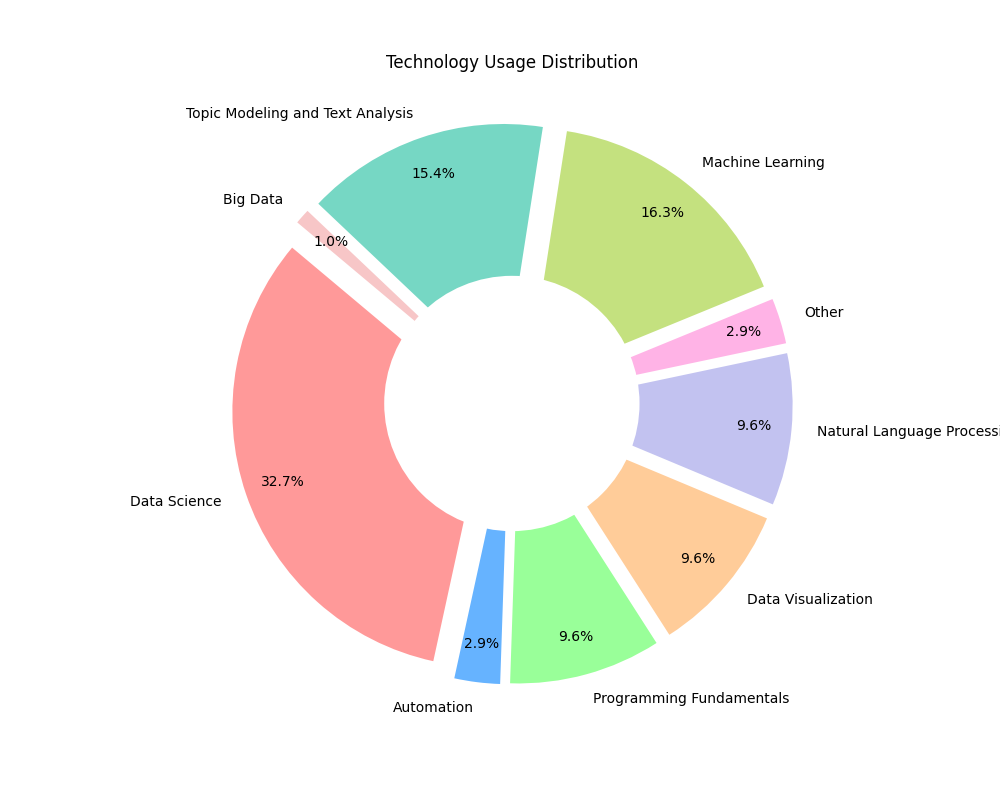
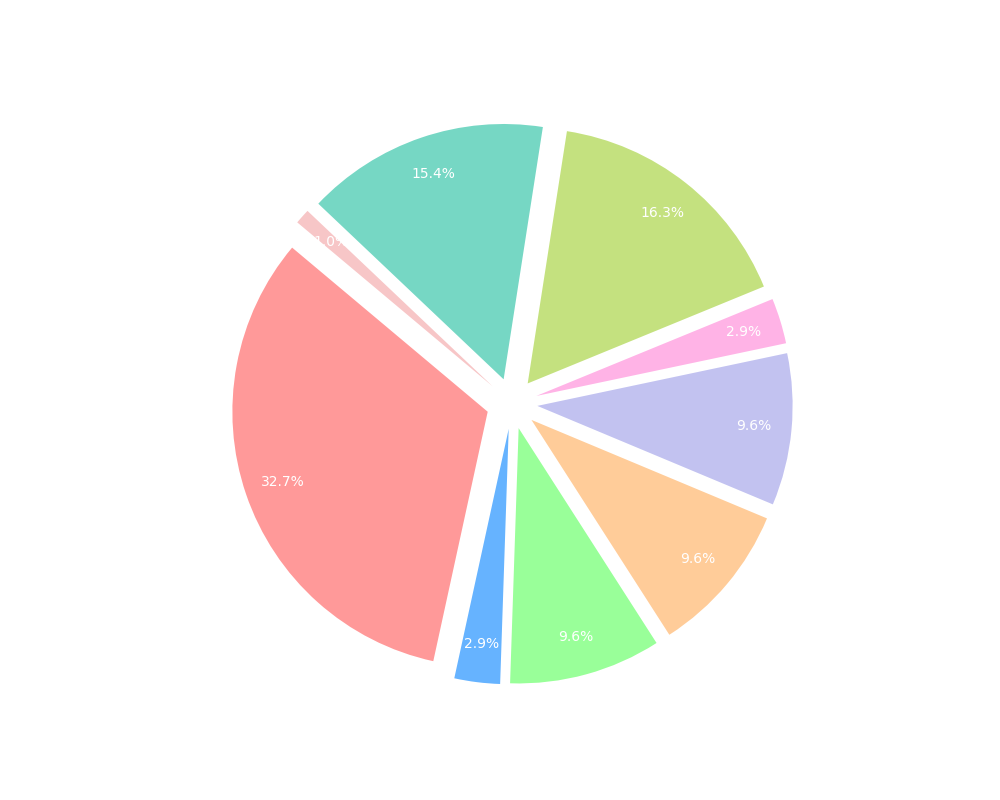
Fix alignments pie chart

diff --git a/.github/scripts/extract_and_visualize.py b/.github/scripts/extract_and_visualize.py
@@ -54,19 +54,29 @@ def categorize_libraries(libs):
 def generate_pie_chart(counts, filename='add-ons/pie_chart.png'):
     labels = counts.keys()
     sizes = counts.values()
-    colors = ['#ff9999','#66b3ff','#99ff99','#ffcc99','#c2c2f0','#ffb3e6', '#c4e17f', '#76d7c4', '#f7c6c7', '#f7c6c7', '#d1f2a5']
+    colors = ['#ff9999', '#66b3ff', '#99ff99', '#ffcc99', '#c2c2f0', '#ffb3e6', '#c4e17f', '#76d7c4', '#f7c6c7', '#f7c6c7', '#d1f2a5']
     explode = (0.1,) * len(labels)
 
     plt.figure(figsize=(10, 8))
-    plt.pie(sizes, explode=explode, labels=labels, colors=colors, autopct='%1.1f%%', startangle=140, pctdistance=0.85)
+    plt.gcf().set_facecolor('#333333')
+    plt.rcParams.update({
+        "text.color": "white",
+        "axes.facecolor": "#333333",
+        "axes.edgecolor": "white",
+        "axes.labelcolor": "white",
+        "xtick.color": "white",
+        "ytick.color": "white",
+        "figure.facecolor": "#333333",
+        "figure.edgecolor": "#333333",
+        "savefig.facecolor": "#333333",
+        "savefig.edgecolor": "#333333"
+    })
 
-    centre_circle = plt.Circle((0,0),0.50,fc='white')
-    fig = plt.gcf()
-    fig.gca().add_artist(centre_circle)
+    plt.pie(sizes, explode=explode, labels=labels, colors=colors, autopct='%1.1f%%', startangle=140, pctdistance=0.85, textprops={'color':"white"})
 
     plt.axis('equal')
-    plt.title('Technology Usage Distribution', pad=20)
-    plt.savefig(filename)
+    plt.title('Technology Usage Distribution', pad=20, color='white')
+    plt.savefig(filename, transparent=True)
 
 def main():
     all_libs = []

diff --git a/README.md b/README.md
@@ -20,11 +20,11 @@
 
 
 # 💻 Tool Box:
-![Python](https://img.shields.io/badge/python-3670A0?style=for-the-badge&logo=python&logoColor=ffdd54) 
-![C++](https://img.shields.io/badge/c++-%2300599C.svg?style=for-the-badge&logo=c%2B%2B&logoColor=white)  ![Docker](https://img.shields.io/badge/docker-%230db7ed.svg?style=for-the-badge&logo=docker&logoColor=white) 
-![HTML5](https://img.shields.io/badge/html5-%23E34F26.svg?style=for-the-badge&logo=html5&logoColor=white) 
-![R](https://img.shields.io/badge/r-%23276DC3.svg?style=for-the-badge&logo=r&logoColor=white) 
-![MySQL](https://img.shields.io/badge/mysql-%2300000f.svg?style=for-the-badge&logo=mysql&logoColor=white) 
+![Python](https://img.shields.io/badge/python-3670A0?style=for-the-badge&logo=python&logoColor=ffdd54)
+![C++](https://img.shields.io/badge/c++-%2300599C.svg?style=for-the-badge&logo=c%2B%2B&logoColor=white)  ![Docker](https://img.shields.io/badge/docker-%230db7ed.svg?style=for-the-badge&logo=docker&logoColor=white)
+![HTML5](https://img.shields.io/badge/html5-%23E34F26.svg?style=for-the-badge&logo=html5&logoColor=white)
+![R](https://img.shields.io/badge/r-%23276DC3.svg?style=for-the-badge&logo=r&logoColor=white)
+![MySQL](https://img.shields.io/badge/mysql-%2300000f.svg?style=for-the-badge&logo=mysql&logoColor=white)
 ![Power Bi](https://img.shields.io/badge/power_bi-F2C811?style=for-the-badge&logo=powerbi&logoColor=black) ![MongoDB](https://img.shields.io/badge/MongoDB-%234ea94b.svg?style=for-the-badge&logo=mongodb&logoColor=white) ![Postgres](https://img.shields.io/badge/postgres-%23316192.svg?style=for-the-badge&logo=postgresql&logoColor=white) ![Matplotlib](https://img.shields.io/badge/Matplotlib-%23ffffff.svg?style=for-the-badge&logo=Matplotlib&logoColor=black) ![Keras](https://img.shields.io/badge/Keras-%23D00000.svg?style=for-the-badge&logo=Keras&logoColor=white) ![NumPy](https://img.shields.io/badge/numpy-%23013243.svg?style=for-the-badge&logo=numpy&logoColor=white) ![Pandas](https://img.shields.io/badge/pandas-%23150458.svg?style=for-the-badge&logo=pandas&logoColor=white) ![Plotly](https://img.shields.io/badge/Plotly-%233F4F75.svg?style=for-the-badge&logo=plotly&logoColor=white) ![PyTorch](https://img.shields.io/badge/PyTorch-%23EE4C2C.svg?style=for-the-badge&logo=PyTorch&logoColor=white) ![TensorFlow](https://img.shields.io/badge/TensorFlow-%23FF6F00.svg?style=for-the-badge&logo=TensorFlow&logoColor=white) ![Scipy](https://img.shields.io/badge/SciPy-%230C55A5.svg?style=for-the-badge&logo=scipy&logoColor=%white) ![scikit-learn](https://img.shields.io/badge/scikit--learn-%23F7931E.svg?style=for-the-badge&logo=scikit-learn&logoColor=white) ![AZUREDEVOPS](https://img.shields.io/badge/azuredevops-0078D7.svg?style=for-the-badge&logo=azuredevops&logoColor=white&color=%230078D7) ![Azure](https://img.shields.io/badge/azure-%230072C6.svg?style=for-the-badge&logo=microsoftazure&logoColor=white) ![AWS](https://img.shields.io/badge/AWS-%23FF9900.svg?style=for-the-badge&logo=amazon-aws&logoColor=white) ![GithubPages](https://img.shields.io/badge/github%20pages-121013?style=for-the-badge&logo=github&logoColor=white) ![Google Cloud](https://img.shields.io/badge/GoogleCloud-%234285F4.svg?style=for-the-badge&logo=google-cloud&logoColor=white) ![Flask](https://img.shields.io/badge/flask-%23000.svg?style=for-the-badge&logo=flask&logoColor=white) ![OpenCV](https://img.shields.io/badge/opencv-%23white.svg?style=for-the-badge&logo=opencv&logoColor=white) ![Jira](https://img.shields.io/badge/jira-%230A0FFF.svg?style=for-the-badge&logo=jira&logoColor=white) ![Confluence](https://img.shields.io/badge/confluence-%23172BF4.svg?style=for-the-badge&logo=confluence&logoColor=white) ![CMake](https://img.shields.io/badge/CMake-%23008FBA.svg?style=for-the-badge&logo=cmake&logoColor=white)
 
 
@@ -35,8 +35,27 @@
   <img alt="github contribution grid snake animation" src="https://raw.githubusercontent.com/RohithGSVV/RohithGSVV/output/github-contribution-grid-snake.svg">
 </picture>
 
-<img src="./add-ons/pie_chart.png" alt="Technologies Used" width="400" height="400" />
+<table>
+<tr>
+<td valign="top" width="50%">
 
+### Certifications
+
+Proudly acquired certifications that underscore my expertise:
+
+- Microsoft Certified: Power BI Data Analyst Associate
+- Certified SAFe5 Practitioner
+
+</td>
+<td valign="top" width="50%">
+
+### Technologies Used
+
+![Technologies Used](./add-ons/pie_chart.png)
+
+</td>
+</tr>
+</table>
 
 ## 🏆 GitHub Trophies
 ![](https://github-profile-trophy.vercel.app/?username=RohithGSVV&theme=radical&no-frame=false&no-bg=true&margin-w=4)
